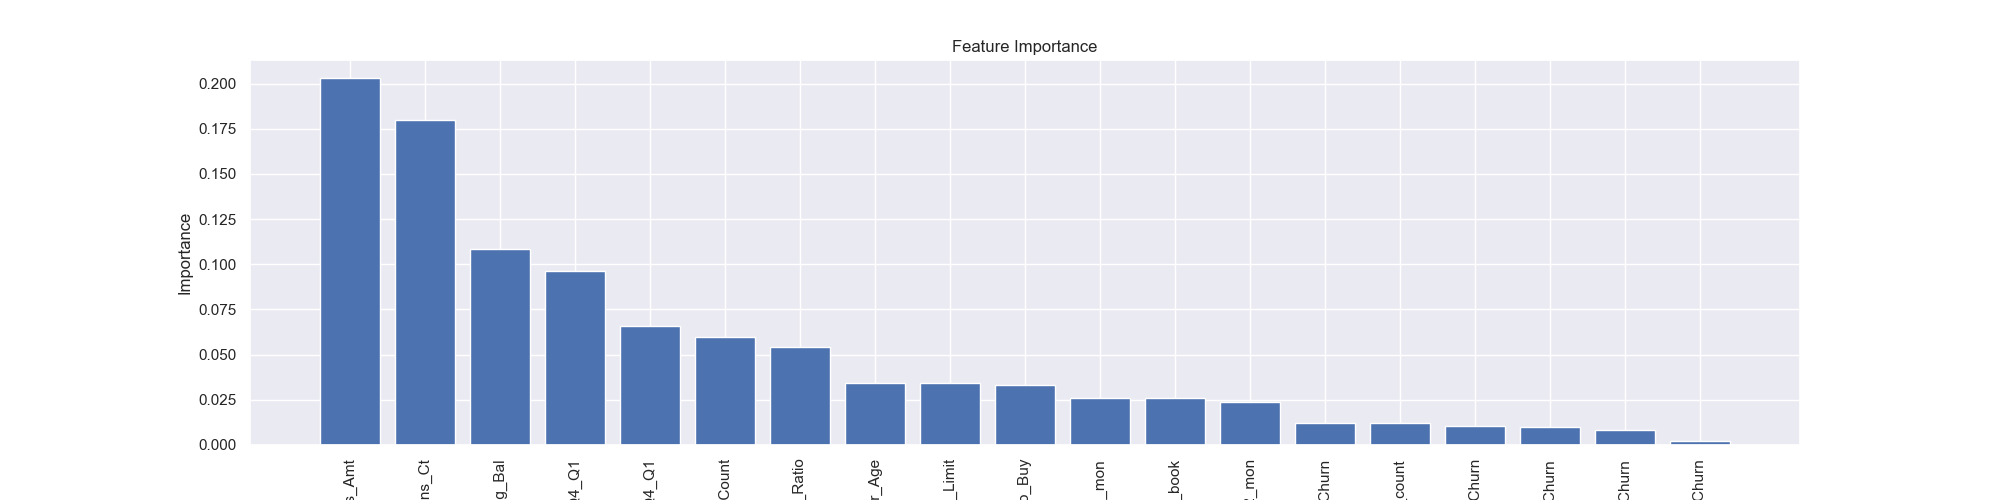
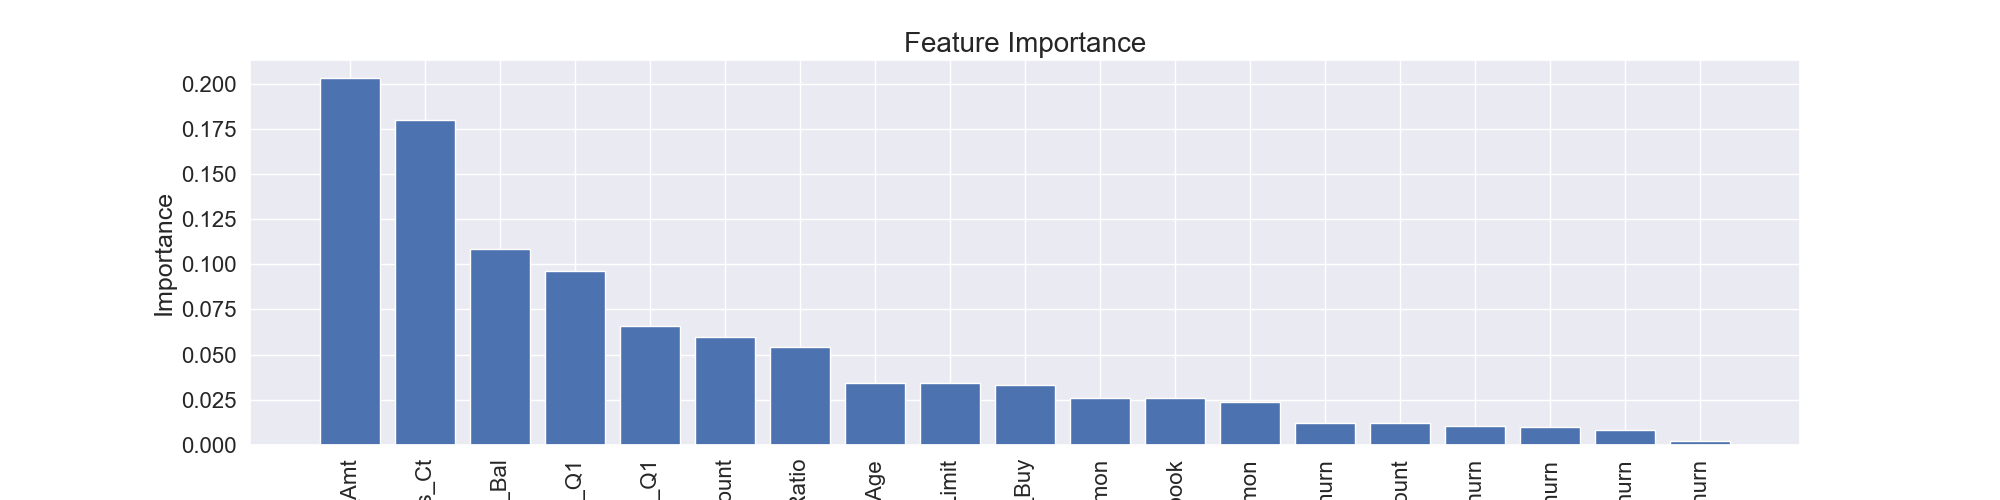
Updates with additional plot and requirements.

diff --git a/churn_library.py b/churn_library.py
@@ -14,6 +14,7 @@ import matplotlib.pyplot as plt
 import numpy as np
 import pandas as pd
 import seaborn as sns
+import shap
 from sklearn.base import BaseEstimator
 from sklearn.ensemble import RandomForestClassifier
 from sklearn.linear_model import LogisticRegression
@@ -372,6 +373,7 @@ class CustomerChurn():
                     " ",
                     "_") +
                 "_class_report.png"))
+        plt.close()
 
     def _generate_classification_report(
             self,
@@ -426,11 +428,28 @@ class CustomerChurn():
                 self.image_pth,
                 'results',
                 "Model_Comparison_ROC.png"))
+        plt.close()
 
-    def _feature_importance_plot(self):
+    def _assess_random_forest(self):
         """
-        Function to create and store the feature importances in images folder.
+        Function to create and store the feature importances/explainer.
         """
+
+        plt.figure(figsize=(20, 16))
+        plt.title("Tree Explainer for Random Forest", fontsize=20)
+        explainer = shap.TreeExplainer(self.cv_rfc.best_estimator_)
+        shap_values = explainer.shap_values(self.data['x_test'])
+        shap.summary_plot(shap_values,
+                          self.data['x_test'],
+                          plot_type="bar",
+                          plot_size=(20, 16),
+                          show=False)
+        plt.xticks(fontsize=16)
+        plt.yticks(fontsize=16)
+        plt.legend(prop={'size': 18})
+        plt.savefig(os.path.join(
+            self.image_pth, 'results',
+            "Random_Forest_Tree_Explainer.png"))
 
         # Calculate feature importances and sort in descending order
         importances = self.cv_rfc.best_estimator_.feature_importances_
@@ -440,14 +459,20 @@ class CustomerChurn():
         names = [self.feature_cols.columns[i] for i in indices]
 
         plt.figure(figsize=(20, 5))
-        plt.title("Feature Importance")
-        plt.ylabel('Importance')
+        plt.title("Feature Importance", fontsize=20)
+        plt.ylabel('Importance', fontsize=18)
         plt.bar(range(self.feature_cols.shape[1]), importances[indices])
-        plt.xticks(range(self.feature_cols.shape[1]), names, rotation=90)
+        plt.xticks(range(self.feature_cols.shape[1]),
+                   names,
+                   rotation=90,
+                   fontsize=16)
+        plt.yticks(fontsize=16)
         plt.savefig(
             os.path.join(
                 self.image_pth, 'results',
                 "Random_Forest_Feature_Importances.png"))
+        
+        plt.close()
 
     def assess_models(self):
         """
@@ -498,7 +523,7 @@ class CustomerChurn():
         self._plot_roc_curves()
 
         # Plot feature importances in Random Forest model
-        self._feature_importance_plot()
+        self._assess_random_forest()
 
         logging.info("SUCCESS: Created model inference reports and results.")
 

diff --git a/tests/test_churn_library.py b/tests/test_churn_library.py
@@ -357,7 +357,7 @@ def test_model_roc_curves(churn_pretrained_models):
         "./tests/output/images/results/Model_Comparison_ROC.png")
 
 
-def test_feature_importance_plot(churn_pretrained_models):
+def test_assess_random_forest(churn_pretrained_models):
     """
     Test to check feature importance output of churn_trained_models fixture.
 
@@ -367,10 +367,11 @@ def test_feature_importance_plot(churn_pretrained_models):
                                                  pretrained models.
     """
     churn_pretrained_models.assess_models()
-    testing_logger.info("""Testing that Feature Importance plots are
-                        successfully created after model training.""")
-    assert os.path.exists(
-        "./tests/output/images/results/Random_Forest_Feature_Importances.png")
+    testing_logger.info("""Testing that analysis plots are successfully
+                         created after training Random Forest model.""")
+    assert all(fname in os.listdir(os.path.join("./tests/output/images/results"))
+               for fname in ["Random_Forest_Feature_Importances.png",
+                             "Random_Forest_Tree_Explainer.png"])
 
 
 def test_save_models(churn_pretrained_models):

diff --git a/plotters.py b/plotters.py
@@ -56,6 +56,7 @@ class Plotters():
         plt.xticks(fontsize=16)
         plt.yticks(fontsize=16)
         plt.savefig(os.path.join(self.image_pth, col + '_hist.png'))
+        plt.close()
 
     def plot_counts(self, col: str = ''):
         """
@@ -75,6 +76,7 @@ class Plotters():
         plt.xticks(fontsize=16)
         plt.yticks(fontsize=16)
         plt.savefig(os.path.join(self.image_pth, col + '_counts.png'))
+        plt.close()
 
     def plot_dist(self, col: str = ''):
         """
@@ -100,6 +102,7 @@ class Plotters():
         plt.xticks(fontsize=16)
         plt.yticks(fontsize=16)
         plt.savefig(os.path.join(self.image_pth, col + '_dist.png'))
+        plt.close()
 
     def plot_corr(self):
         """
@@ -116,3 +119,4 @@ class Plotters():
         plt.xticks(fontsize=16)
         plt.yticks(fontsize=16)
         plt.savefig(os.path.join(self.image_pth, 'Correlation.png'))
+        plt.close()
